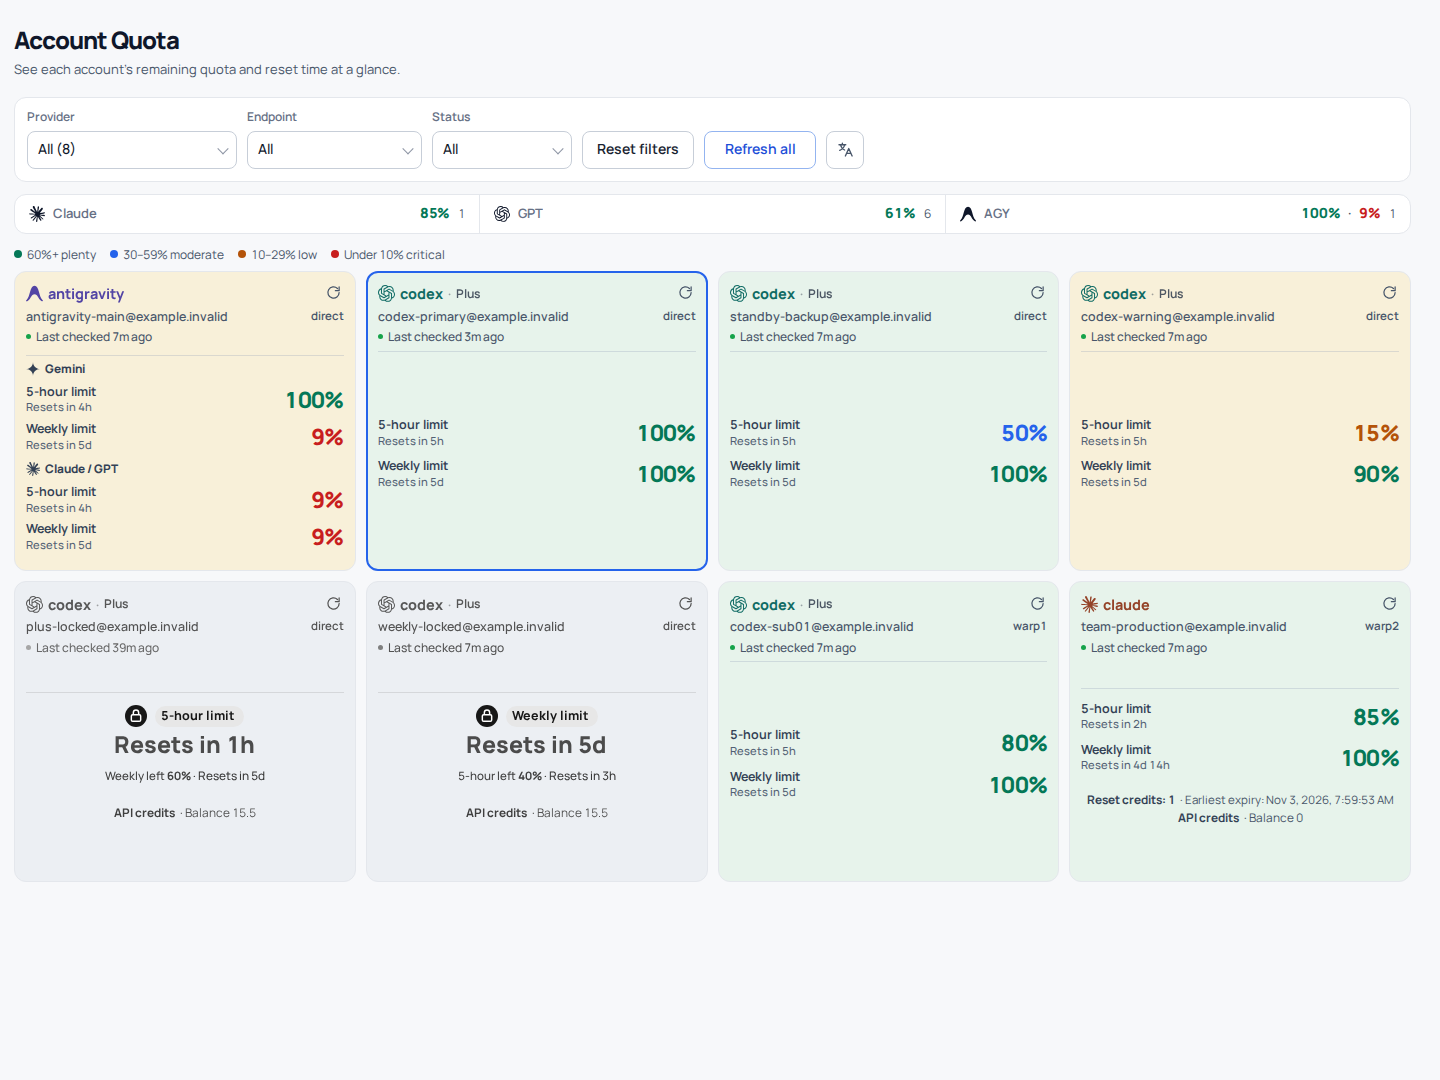
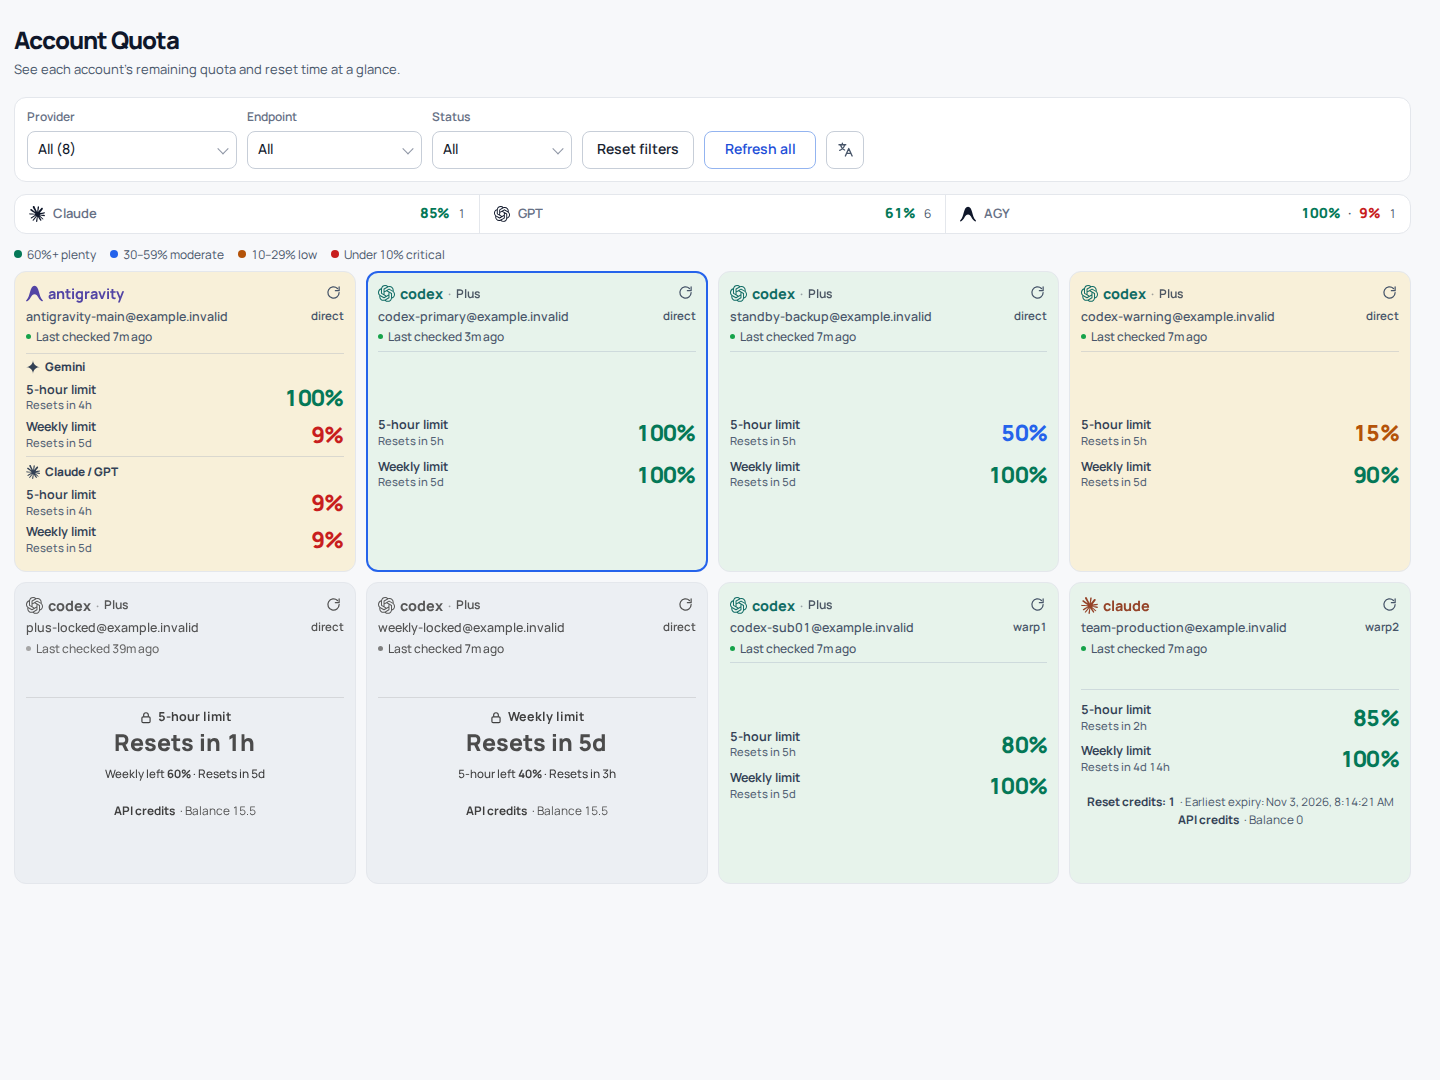
style(dashboard): quieter lock marker, divider between antigravity sections
- lock marker is a small padlock glyph next to the limit name (no filled circle, no pill)
- one hairline between the Gemini and Claude/GPT sections of an antigravity card
- section spacing tightened so the divider replaces the old gap
- README screenshots refreshed

diff --git a/internal/dashboard/style.css b/internal/dashboard/style.css
@@ -635,3 +635,23 @@
   .account-card[data-locked="true"] .quota-lock-time, .account-card[data-locked="true"] .quota-lock-weekly,
   .account-card[data-locked="true"] .quota-lock-weekly-summary { color: #334155; }
   .account-card[data-locked="true"]:not([data-provider="antigravity"]) .quota-lock-time { color: #475569; }
+
+  /* ===================== Toned-down lock marker + section divider =====================
+     The lock is a small padlock glyph next to the limit name (no filled circle, no red pill): enough to say
+     "this limit is used up" without shouting. Antigravity's two sections get one hairline between them. */
+  .ag-family-lock-title, .quota-lock-title { gap: 5px; flex-wrap: nowrap; }
+  .ag-family-lock-title .ag-lock-limit, .quota-lock-title > span { padding: 0; border-radius: 0; background: none; color: #334155; font-size: 0.78rem; font-weight: 700; gap: 0; }
+  .ag-family-lock-title .ag-lock-padlock, .quota-lock-title .quota-lock-icon { width: 14px; height: 14px; padding: 0; border-radius: 0; background: none; color: #b91c1c; stroke-width: 2; margin: 0; order: 0; }
+  .ag-family-lock-title .ag-lock-family { margin-left: 6px; padding-left: 8px; border-left: 1px solid rgba(148,163,184,0.5); }
+  .account-card[data-locked="true"]:not([data-provider="antigravity"]) .quota-lock-title > span { background: none; color: #334155; }
+  .account-card[data-locked="true"]:not([data-provider="antigravity"]) .quota-lock-title .quota-lock-icon { background: none; color: #334155; }
+
+  .account-card .ag-family-stack { gap: 0; }
+  .account-card .ag-family-stack > .ag-family-section + .ag-family-section { margin-top: 10px; padding-top: 10px; border-top: 1px solid rgba(148,163,184,0.30); }
+
+  /* spacing pass: the divider between the two antigravity sections replaces the old gap, so cards stay compact */
+  .account-card .ag-family-stack > .ag-family-section + .ag-family-section { margin-top: 6px; padding-top: 8px; }
+  .account-card .ag-family-stack:has(.is-locked) > .ag-family-section.is-locked + .ag-family-section.is-locked { padding-top: 8px; }
+  .account-card[data-provider="antigravity"] .card-quota { padding: 2px 0 6px; }
+  .ag-family-section.is-locked, .ag-family-section.is-locked:first-child { padding-bottom: 2px; }
+  .account-card:not([data-provider="antigravity"]) .quota-lock-state { padding: 0; }
